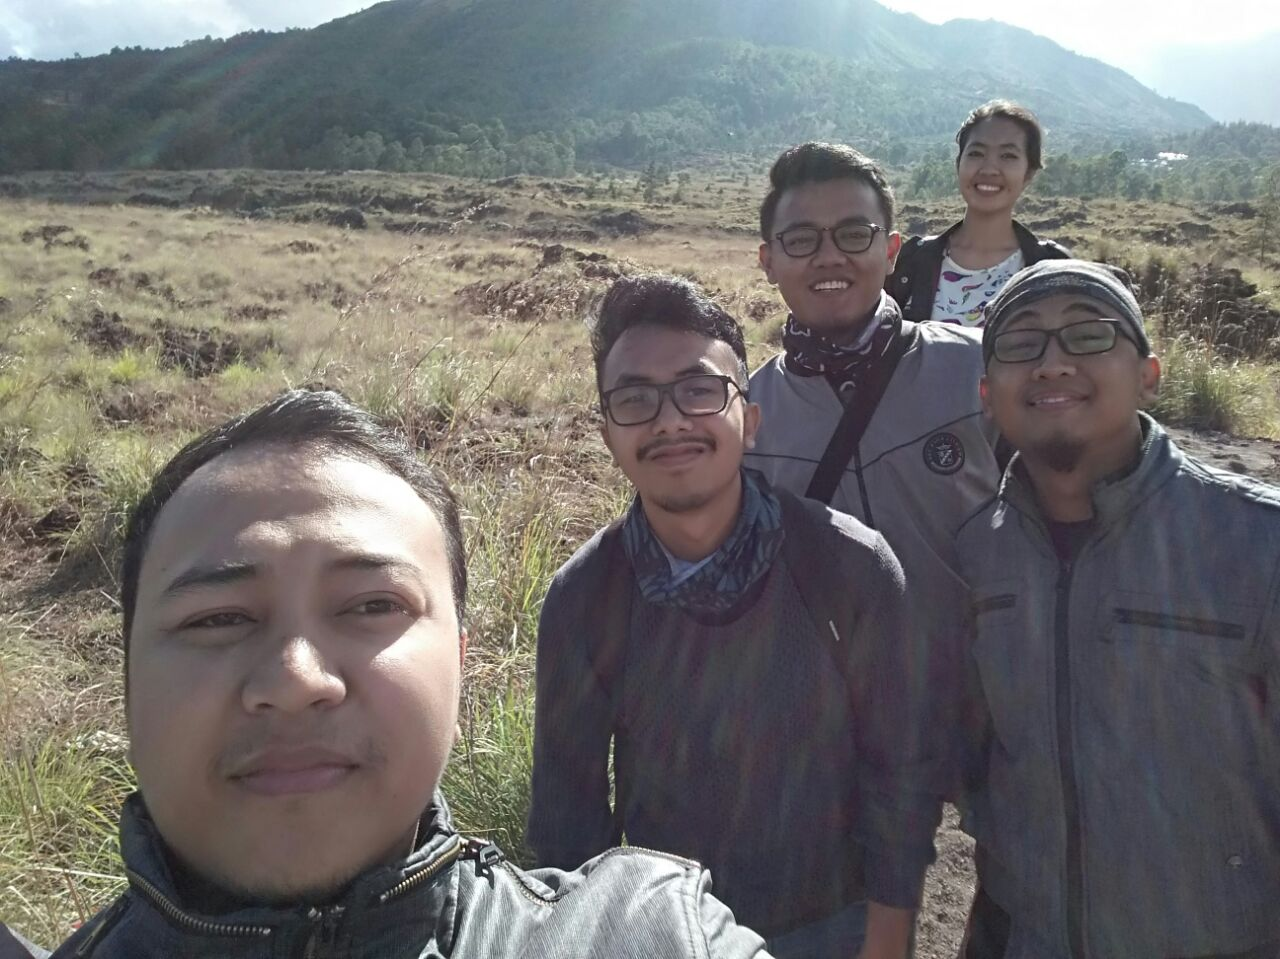
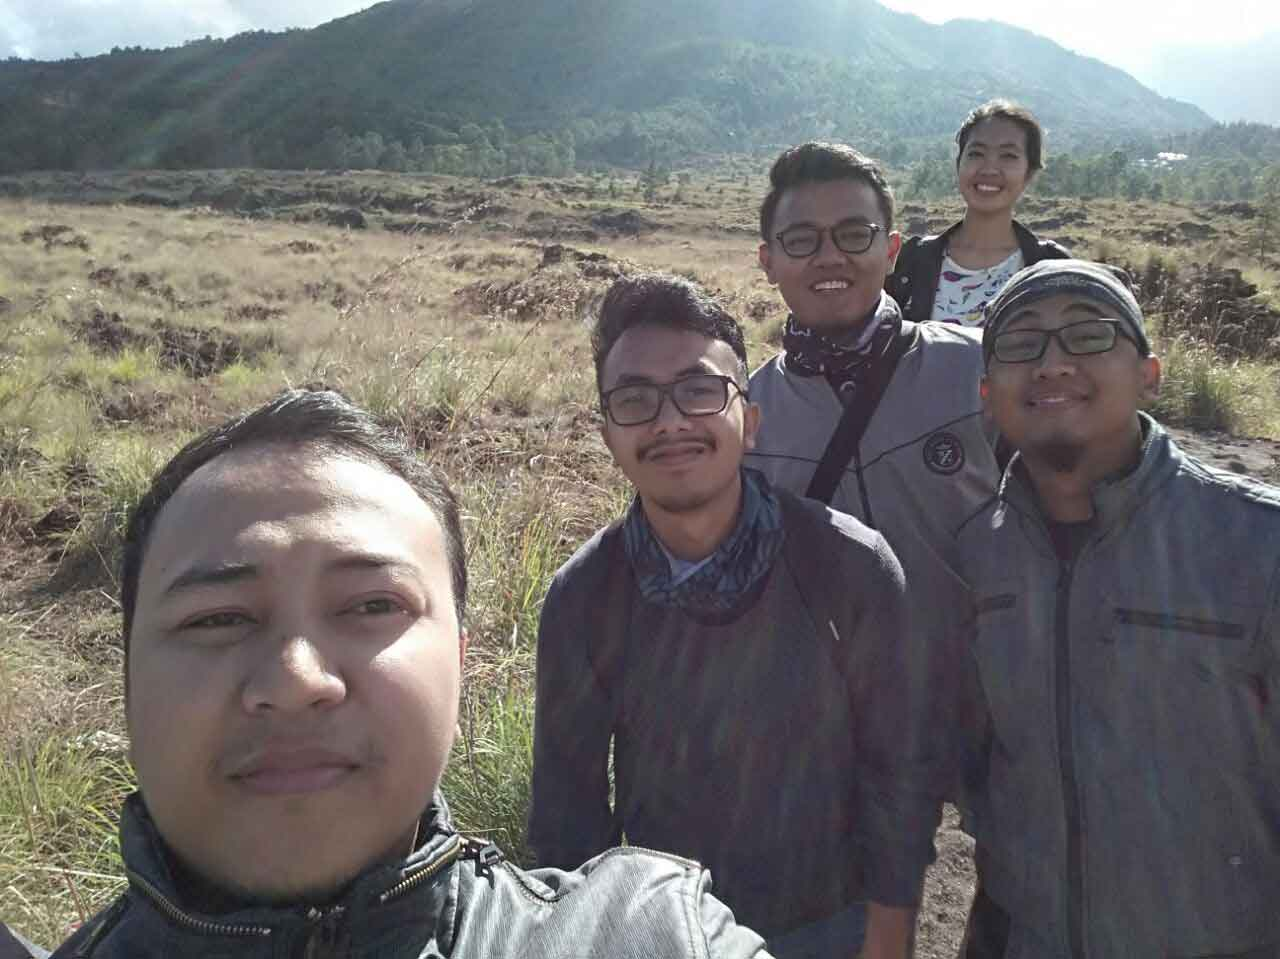
compress all pictures

Changed region(s): [[0.4062, 0.9979, 0.4375, 1.0], [0.0, 0.9979, 0.0312, 1.0]]

diff --git a/project/templates/index/index.html b/project/templates/index/index.html
@@ -171,7 +171,7 @@
 	<div id="testimonial" class="section md-padding">
 
 		<!-- Background Image -->
-		<div class="bg-img" style="background-image: url('../../static/properties/client/img/waerebo-traditional-village-tourku asia-min.jpg');">
+		<div class="bg-img" style="background-image: url('../../static/properties/client/img/waerebo-traditional-village-jepunku-min.jpg');">
 
 			<div class="overlay"></div>
 		</div>
@@ -192,7 +192,7 @@
 						<!-- testimonial -->
 						<div class="testimonial">
 							<div class="testimonial-meta">
-								<img src="{{ url_for('static', filename='properties/client/img/rizki-sadewa-photo.jpg') }}" alt="">
+								<img src="{{ url_for('static', filename='properties/client/img/rizki-sadewa-photo-jepunku.jpg') }}" alt="">
 								<h3 class="white-text">Rizki Sadewa</h3>
 								<span>Travel Consultant</span>
 							</div>
@@ -203,7 +203,7 @@
 						<!-- testimonial -->
 						<div class="testimonial">
 							<div class="testimonial-meta">
-								<img src="{{ url_for('static', filename='properties/client/img/Dhimas Photo Profile.jpg') }}" alt="">
+								<img src="{{ url_for('static', filename='properties/client/img/Dhimas-Photo-Profile-Jepunku.jpg') }}" alt="">
 								<h3 class="white-text">Dhimas Riski P.</h3>
 								<span>Travel Consultant</span>
 							</div>
@@ -315,7 +315,7 @@
 	<div id="testimonial" class="section md-padding">
 
 		<!-- Background Image -->
-		<div class="bg-img" style="background-image: url('../../static/properties/client/img/background/wakatobi.png');">
+		<div class="bg-img" style="background-image: url('../../static/properties/client/img/background/wakatobi-jepunku.jpg');">
 			<div class="overlay"></div>
 		</div>
 		<!-- /Background Image -->
@@ -434,7 +434,7 @@
 	<div id="numbers" class="section sm-padding">
 
 		<!-- Background Image -->
-		<div class="bg-img" style="background-image: url('../../static/properties/client/img/background/jatiluwih-jepunku-background.png');">
+		<div class="bg-img" style="background-image: url('../../static/properties/client/img/background/jatiluwih-jepunku-background.jpg');">
 			<div class="overlay"></div>
 		</div>
 		<!-- /Background Image -->
@@ -513,7 +513,7 @@
 				<div class="col-sm-6">
 					<div class="team">
 						<div class="team-img">
-							<img class="img-responsive" src="{{ url_for('static', filename='properties/client/img/Dhimas Photo Profile.jpg') }}" alt="">
+							<img class="img-responsive" src="{{ url_for('static', filename='properties/client/img/Dhimas-Photo-Profile-Jepunku.jpg') }}" alt="">
 							<div class="overlay">
 								<div class="team-social">
 									<a href="https://www.facebook.com/dhimas.riskipradana?jazoest=2651001211044890118988273114746685981177010349711081069081854811310010010081531019011978120105831005112177120122119586510011945738665107101861176950102867212086678482789510810766881149081106908777738010011911951827154518881"><i class="fa fa-facebook"></i></a>

diff --git a/project/static/css/mystyle.css b/project/static/css/mystyle.css
@@ -1188,7 +1188,7 @@ header {
 
 .service-dps:after {
     content: "";
-    background-image: url(../properties/client/img/Banner-Bali-Tampak-Siring.jpg);
+    background-image: url(../properties/client/img/Banner-Bali-Tampak-Siring-Jepunku.jpg);
     position: absolute;
     left: 0;
     top: 0;
@@ -1200,7 +1200,7 @@ header {
 }
 
 .service-dps:hover:after {
-    background-image: url(../properties/client/img/Banner-Bali-Tampak-Siring.jpg);
+    background-image: url(../properties/client/img/Banner-Bali-Tampak-Siring-Jepunku.jpg);
     background-position: center;
     background-repeat: no-repeat;
     background-size: cover;
@@ -1244,7 +1244,7 @@ header {
 
 .service-jog:after {
     content: "";
-    background-image: url(../properties/client/img/Banner-Yogya-Borobudur.jpg);
+    background-image: url(../properties/client/img/Banner-Yogya-Borobudur-Jepunku.jpg);
     position: absolute;
     left: 0;
     top: 0;
@@ -1256,7 +1256,7 @@ header {
 }
 
 .service-jog:hover:after {
-    background-image: url(../properties/client/img/Banner-Yogya-Borobudur.jpg);
+    background-image: url(../properties/client/img/Banner-Yogya-Borobudur-Jepunku.jpg);
     background-position: center;
     background-repeat: no-repeat;
     background-size: cover;
@@ -1301,7 +1301,7 @@ header {
 
 .service-lop:after {
     content: "";
-    background-image: url(../properties/client/img/Banner-Lombok-SelongBelanak.jpg);
+    background-image: url(../properties/client/img/Banner-Lombok-SelongBelanak-Jepunku.jpg);
     position: absolute;
     left: 0;
     top: 0;
@@ -1313,7 +1313,7 @@ header {
 }
 
 .service-lop:hover:after {
-    background-image: url(../properties/client/img/Banner-Lombok-SelongBelanak.jpg);
+    background-image: url(../properties/client/img/Banner-Lombok-SelongBelanak-Jepunku.jpg);
     background-position: center;
     background-repeat: no-repeat;
     background-size: cover;
